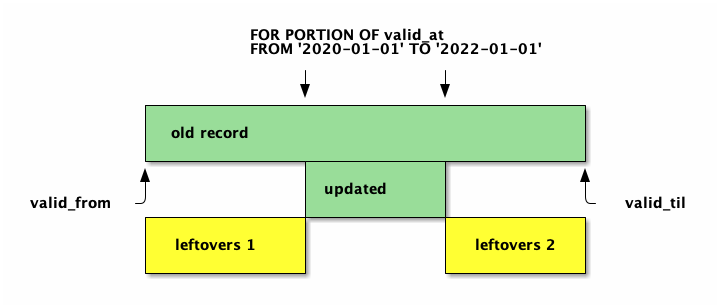
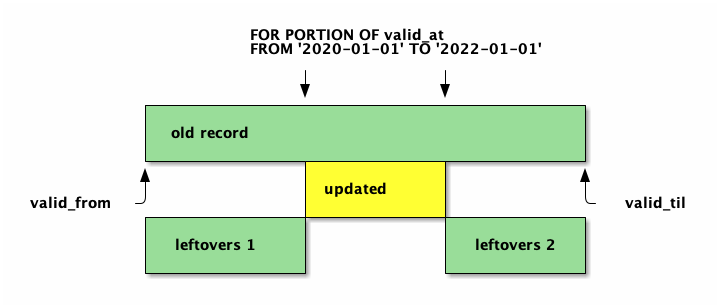
More edits

Changed region(s): [[0.1833, 0.526, 0.825, 0.9058]]

diff --git a/slides.md b/slides.md
@@ -1,4 +1,4 @@
-# Postgres Pipeline: Especially Emphasizing Executor
+# Postgres Pipeline: Especially Emphasizing Execution
 
 by Paul Jungwirth
 
@@ -12,13 +12,14 @@ Notes:
 - I do independent consulting & development through my company Illuminated Computing.
 - When I'm lucky I get to do Postgres work.
 - I've been a minor contributor since 2016.
-  - I added multiranges a while back,
+  - I worked on multiranges,
   - and since then I've been working on adding SQL:2011 temporal support.
 
 - As a newish contributor, I've often wished for a comprehensive guide to hacking on Postgres.
 - There are some great articles and talks out there already,
-  but one place I've never found much help is on the executor phase.
-- So this is my contribution to helping others pick up Postgres hacking.
+  but one place I've never found much help on is the executor phase.
+- So this is my contribution to helping others pick up Postgres hacking:
+  the bits I had to figure out on my own.
 
 
 
@@ -40,16 +41,16 @@ Notes:
   Build possible plan trees,
   Cost them and choose the best one,
   and finally run it!
-- I want to give the talk I wish I had when I was working temporal stuff.
 - There are lots of talks about writing custom C functions for Postgres,
   and lots about the parsing and analysis phases,
   but I could find very little about the execution phase---
   which is where the real work is supposed to happen.
 - So I'm going to rush a bit through the early phases
   so I can talk more about executor nodes, tuple table slots, etc.
-- This talk will probably be a bit desultory,
-  but I hope following the pipeline structure will help a bit.
-- I want to also use my temporal work as a running example.
+- It's going to be desultory and digressive,
+  but I hope two things will help:
+  - I'm going to follow this pipeline structure,
+  - and I'll use my temporal work as a running example.
 
 - Of course PGCon is like the riskiest place to give a talk like this.
   - Here I am a Postgres dilettante you are all the real experts.
@@ -74,18 +75,18 @@ FOREIGN KEY (id, PERIOD valid_at)
 
 Notes:
 
-- Hopefully my temporal work will help make things concrete and motivated.
+- Here's the temporal stuff I'll use to keep things concrete.
 - There are four parts:
   - (higlight) adding a PERIOD (which is a bit like a range but not a true column).
   - (highlight) adding a temporal primary key or unique constraint (which includes a PERIOD or (in Postgres) a range column).
   - (highlight) running a temporal UPDATE/DELETE, which targets just a span of time and leaves the other times untouched.
   - (highlight) adding a temporal foreign key.
 - (highlight) Mostly I'll talk about `FOR PORTION OF`, because that's the most "interesting" command here.
-  - Basically SELECT and DML commands go through the full query pipeline.
-  - Whereas DDL are "utility commands" and get more direct treatment.
+  - DDL commands are just "utility commands" and skip most of this pipeline.
     - They are still parsed & analyzed ...
       but then we don't build up a plan or a tree of executor nodes.
       We just do it.
+  - But SELECT and DML get the full experience.
 
 
 
@@ -98,6 +99,7 @@ Notes:
 - Here is a quick visualization of what FOR PORTION OF does.
   - The SQL:2011 standard says when we update the original row we should force the start/end bounds to the period targeted by FOR PORTION OF . . .
   - and then implicitly INSERT up to two new rows to preserve the "leftovers" the UPDATE didn't target.
+  - The leftovers are green because they match the pre-update data.
   - By the way this is the only picture you get in this whole talk.
 
 
@@ -124,16 +126,18 @@ Notes:
 
 - Why do all these phases matter?
   - I've noticed several patches being rejected because they do their work in the wrong phase.
-    - There was a really cool temporal patch a few years ago that did nearly everything in the analysis phase. This quote is from that patch.
+    - There was a really cool temporal patch a few years ago that did nearly everything in the analysis phase. This quote is feedback on that patch.
     - Early versions of the MERGE command patch were rejected with similar feedback.
       - Robert Haas wrote an excellent review of that patch from 2019 giving specific reasons why you should do things in the right phase,
         as well as links to past feedback with yet more reasons.
         Robert and Tom's posts are both in the References at the end of my talk.
         I've been trying to find them again for years actually, but I could never get Google to give me what I wanted.
-        Finally for this talk I downloaded all the mbox files and searched them locally. (Sorry archive team!)
-        Now you can check them out yourselves!
+        Finally for this talk I downloaded all the mbox files and searched them locally.
+          - (Sorry about that!)
+          - But they are too good to get lost to obscurity.
+          - They should really get linked from the Postgres development wiki.
 
-  - Most commonly patches do too much upfront in analysis, but this has some problems:
+  - So what's wrong with doing your work in analysis?
     - When you describe a view, you won't get back the SQL you typed in.
     - The output from EXPLAIN will look funny.
       - Actually my own patch is maybe wrong here:
@@ -255,7 +259,7 @@ Notes:
 - You will also see a lot of List members.
   - A List is also a Node, but it's a node that has a bunch of other nodes.
   - There are functions to build them, iterate over them, append to them.
-  - When people say the Postgres is lispy, this is part of what they mean.
+  - When people say that Postgres is lispy, this is part of what they mean.
   - Actually a lightning talk on Postgres's Lisp history would be a lot of fun, if any of you are qualified to give that.
 
 - Nodes & Lists are well-covered by other talks, so if you want to know more check the references at the end.
@@ -448,7 +452,13 @@ Notes:
 - They call `ReleaseSysCache` for you so they are convenient.
 - It's common to call these during analysis, but really they're called anywhere.
 - Here is a helper function I added.
-- This is used by the foreign key triggers.
+  - This is used by the foreign key triggers.
+  - Basically everything in lsyscache looks like this:
+    - It searches the syscache,
+    - it pulls something off the struct
+    - it releases the tuple,
+    - it returns what it found.
+    - There is a convention to let the caller say whether or not to fail on missing data.
 - Typically you use syscache if you need a bunch of things from the catalog row,
   and if you only need one thing (like a name or the oid) you use an lsyscache helper.
 
@@ -478,8 +488,8 @@ Notes:
   I mean int is never going out of style, right?
   So a `TypeCacheEntry` is never freed.
   This saves a lot of work---both for Postgres and for you.
-  I guess if you built an application that operationally redfined typed,
-  you'd be leaking a lot of memory, but also you'd be crazy.
+  I guess if you built an application that operationally redfined types,
+  you'd be leaking a lot of memory, but also you'd be little crazy.
 - The typcache has some functions for domains and enums, but the only really essential function is `lookup_type_cache` (highlight).
   - A `TypeCacheEntry` is a big struct with lots of info, and you might not want all of it, so you can use constants like `TYPECACHE_RANGE_INFO` to say what you care about.
   - Here (highlight) we are using the type's size and whether it's pass-by-value to make a copy of a range.
@@ -956,6 +966,8 @@ Notes:
 - Whereas a HeapTupleTableSlot is stored in palloc'd memory, a BufferHeapTupleTableSlot is stored in our disk buffer.
 - In fact the HeapTuples you get from syscache are examples of this.
 - For these tuples we need to take & release buffer pins, not alloc & free memory.
+  - A pin says "Don't throw this buffer page away; I'm using it!"
+  - Like you're pinning it in place.
 - Looking at tuples in the buffer cache is sort of the normal case,
   but this is maybe the most complicated.
   You can see it's a "subclass" of `HeapTableTableSlot`, just with a pointer to its buffer.
@@ -966,7 +978,7 @@ Notes:
   - Your Init function sets up a TupleTableSlot to hold the rows you're going to return.
   - Then in your proc node you're asking an Access Method for the tuples from the table or index,
     and you call `ExecStoreBufferHeapTuple` to put it into your TupleTableSlot.
-    - So that puts a pin in the buffer page (so it doesn't go away),
+    - So that puts a pin in the buffer page,
       then it stores a pointer to the `HeapTuple` struct.
 
 
